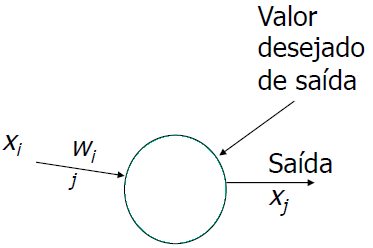
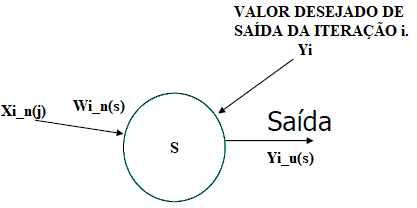
em andamento : algoritmo backpropagation

diff --git a/monografia_bcc.tex b/monografia_bcc.tex
@@ -1166,29 +1166,30 @@
         \subsection{Treino da MLP - BackPropagation para 1 sinal de saída}
             No caso do problema de predição de demanda onde se busca apenas um valor de saída, que é a previsão de vendas em relação às variáveis de entrada, o cálculo de reajuste dos pesos da camada de saída é reduzido à apenas 1 neurônio na camada de saída, porém o somatório no calculo do erro pode envolver outros neurônios de saída em outros casos.
             
-            Um vetor $i$ do conjunto de dados, de tamanho $n$ de variáveis de entrada\\ $X_{0}(i),X_{1}(i),...,X{n}(i)$,\\ que são os sinais de entrada, são apresentados à rede, relacionados à um valor supervisionado $Y_i$.
+            Um vetor $i$ do conjunto de dados, de tamanho $n$ de variáveis de entrada\\ $Xi_{0}(j),Xi_{1}(j),...,Xi_{n}(j)$,\\ que são os sinais de entrada, são apresentados à rede, relacionados à um valor supervisionado $Y_i$.
             
-            Em resumo o treino da rede perceptron com backpropagation obtém o sinal de saída no último neurônio $s$ da rede, através da propagação dos sinais de saída dos neurônios anteriores da rede, feito pela aplicação da combinação linear dos sinais de entrada com os pesos sinápticos em uma função de ativação. É calculado o erro quadrático $e$ deste sinal de saída em $s$ com o valor $Y_i$, e a regra do Gradiente Descendente com base neste erro é utilizada para o reajuste dos pesos sinápticos em todas as conexões de todos os neurônios. O processo é denominado regra delta generalizada. $\Delta$
+            Em resumo o treino da rede perceptron com backpropagation obtém o sinal de saída no último neurônio $s$ da rede, através da propagação dos sinais de saída dos neurônios anteriores da rede, feito pela aplicação da combinação linear dos sinais de entrada com os pesos sinápticos em uma função de ativação. É calculado o erro quadrático $e$ deste sinal de saída em $s$ com o valor $Yi$, e a regra do Gradiente Descendente com base neste erro é utilizada para o reajuste dos pesos sinápticos em todas as conexões de todos os neurônios. O processo é denominado regra delta generalizada. $\Delta$
             
             Neste capítulo, será denominado a função de ativação do neurônio por $F(.)$ para uma melhor coerência, devido ao símbolo $\delta$ utilizado para esta função nas seção anterior sobre o neurônio artificial ser amplamente utilizado para outros fins na regra de reajuste dos pesos sinápticos da rede MLP. Esta função na MLP - Backpropagation deve ser uma função não-linear diferenciável em todos os pontos, popularmente é usada a função sigmoide.
             
-            O erro quadrático do treino de uma rede MLP com Backpropagation, com 1 sinal de saída, no neurônio de saída $s$, em uma k-ésima iteração de treino em uma determinada época será:\\ 
-            $ e(k) =\frac{1}{2}*( (Y_i(k)-Y_u(s))^2 ) $\\ onde $Y_u(s)$ é o sinal de saída deste neurônio de saída, e $Y_i$ é o valor de saída da observação do conjunto de dados.
+            O erro quadrático do treino de uma rede MLP com Backpropagation, com 1 sinal de saída, no neurônio de saída $s$, em uma i-ésima iteração de treino em uma determinada época $k$ será:\\ 
+            $ e(i) =\frac{1}{2}*( (Yi-Yi_{\mu}(s))^2 ) $\\ onde $Y_{\mu}(s)$ é o sinal de saída deste neurônio de saída, e $Y_i$ é o valor de saída da observação do conjunto de dados.
             
             O principal objetivo de todo o método backpropagation conforme o avanço de épocas, é o treino em uma determinada época reduzir a média de erros quadráticos do conjunto de validação ( $m.s.e$ ) em $n$ iterações de validação desta época:\\
             $m.s.e = \frac{1}{n} \sum_{k=1}^{n}e(k)$
-            É importante observar que 1 época consiste no par treino e validação. Logo após o treino, os erros $e(k)$ serão obtidos novamente através das entradas $Y_i$ do conjunto de validação, e respostas propagadas $Y_u$ da rede já treinada, para então o $m.s.e$ ser calculado.
+            É importante observar que 1 época consiste no par treino e validação. Logo após o treino, os erros $e(k)$ serão obtidos novamente através das entradas $Y_i$ do conjunto de validação, e respostas propagadas $Y_\mu$ na camada de saída da rede já treinada, para então o $m.s.e$ ser calculado.
             
             O valor $m.s.e$ será o critério de parada do treinamento de toda a rede e deve ser observado a cada época de treinamento, assim que este valor atingir um ponto ótimo, conforme figura deste ponto ótimo exibida anteriormente, o critério de parada será verdadeiro e o treinamento deve parar, pois a partir desse ponto a rede converge à um overfitting (divergindo de uma capacidade de generalização, e memorizando os dados de treino, podendo ter sua estimativa eficiente somente no conjunto de dados de treino).
             
             Ressaltando que toda saída de todo neurônio $j$ da rede, com $n$ entradas, é calculada através da equação:\\
-            $ y_{u}(j) = F(\sum_{i=1}^{n} (X_i(j)*W_{i}(j) + b) )$\\
+            $ Y_{\mu}(j) = F(\mu)$\\
+            Onde $\mu = (\sum_{i=1}^{n} (Xi_{n}(j)*Wi_{n}(j) + b)$ é o potencial de ativação do neurônio $j$ e $F$ é a função de ativação do neurônio.
             
+           %%%%%%%%%%%%%%%%%%%%%%%%%%%%%%%%%% 
            \paragraph*{Fase Feedforward}
-            Nesta fase, em determinada época (K), em um vetor de $n$ variáveis $Xi$ correspondentes à um total de venda $Yi$, todos os neurônios $j$ propagam o sinal de saída através do calculo de $Y_{i}(j) = F(\sum_{i=1}^{n} (X_i(j)*W_{i}(j) + b) )$.
-            Os pesos sinápticos de cada neurônio $j$ conectado à uma entrada $Xi_n$ são $Wi_(j)$. A saída estimada pela rede será $Yu_i(s)$.
+            Nesta fase, em determinada época $(k)$, em um vetor de $n$ variáveis $Xi$ correspondentes à um total de venda $Yi$, todos os neurônios $j$ propagam o sinal de saída através do calculo de $Yi_{\mu}(j) = F(\mu(j))$. No cálculo de $\mu$ os pesos sinápticos de cada neurônio $j$ conectado à uma entrada $Xi_{n}(j)$ são $Wi_{n}(j)$. A saída estimada pela rede será $Yi_{\mu}(s)$.
             
-            Se a iteração $i$ da época $K$ for a primeira, todos os pesos $Wi_(j)$ são inicializados com valores aleatórios pequenos.
+            Se a iteração $i$ da época $k$ for a primeira, todos os pesos $Wi_{n}j$ em todos os neurônios, são inicializados com valores aleatórios pequenos.
             
             \begin{figure}[!ht]
           	\center{
@@ -1206,22 +1207,18 @@
           	\caption{Cálculo do valor estimado de saída da rede.}
            \end{figure}
             
-            O valor de $Yu_{i}(j)$. dos neurônios da primeira camada oculta, são obtidos de forma que $Xi_{n}$ são os sinais de entrada das variáveis de 1 à $n$.
+            O valor de $Yi_{\mu}(j)$. dos neurônios da primeira camada oculta, são obtidos de forma que $Xi_{n}(j)$ são os sinais de entrada das variáveis de 1 à $n$.
             
-            O valor de $Yu_{i}(j)$. dos neurônios das próximas camadas, inclusive a de saída, utiliza o sinal de saída $yi_{u}$ dos neurônios da camada anterior conectados à $j$ como um sinal de entrada $Xi$.
+            O valor de $Yi_{\mu}(j)$. dos neurônios das próximas camadas, inclusive a de saída, utiliza o sinal de saída $Yi_{\mu}$ dos neurônios da camada anterior conectados à $j$ como um sinal de entrada $Xi_{n}$.
             
+            %%%%%%%%%%%%%%%%%%%%%%%%%%%%%%
             \paragraph*{Fase Feedbackward}
-            O Processo de minimização do erro quadrático no treino, é feito pelo método do Gradiente Descendente, reajustando os pesos sinápticos $W_{i}(j)$ correspondente ao neurônio $j$ da rede, da seguinte forma:\\
-            $\Delta W_{i}(j) = \eta*\delta_j*X_i(j)$\\
+            O Processo de reajuste dos pesos sinápticos com o objetivo de atingir a minimalização do erro quadrático da validação, é feito pelo método do Gradiente Descendente, reajustando os pesos sinápticos $Wi_{n}(j)$ correspondente à cada neurônio $j$ da rede, para um valor $\Delta Wi_{n}(j)$, da seguinte forma:\\
+            $\Delta Wi_{n}(j) = \eta*\delta_j*Xi_{n}(j)$\\
             
-            
-            
-            
-            
-            O peso sináptico $W_i$ do neurônio j é reajustado proporcionalmente ao negativo da derivada parcial do erro deste neurônio em relação ao seu peso.\\ 
-            $\delta_j= -\frac{\partial e}{\partial y_{u}(j)}$\\
-            
-             
+            \subparagraph*{Regra $\delta$ para neurônio de saída}
+            Exclusivamente para a camada de saída, $\delta$ é calculado por\\
+            $\delta_s = (Yi - Yi_{\mu}(s) )*F'(\mu(s))$.
             \begin{figure}[!ht]
           	\center{
           		\includegraphics[width=0.40\textwidth]
@@ -1229,21 +1226,72 @@
           	}
           	\caption{Aprendizado de um neurônio na camada de saída}
            \end{figure}
-            $\delta_j = e_j*F'(y_j)$
             
-            O valor $\delta_j$ é retro-propagado aos neurônios de entrada como um peso $w_i$.
+            O valor dos $n$ pesos $Wi_{n}(s)$ do neurônio de saída $s$ com $n$ entradas vindas das saídas de neurônios $j$ das camadas anteriores, é obtido por $\Delta Wi_{n}(s) = \eta*\delta_s*Yi_{\mu}(j)$\\.
+            \begin{figure}[!ht]
+          	\center{
+          		\includegraphics[width=0.65\textwidth]
+          		{20-mlp-bp-fb.png}
+          	}
+          	\caption{Reajuste dos pesos de saída}
+           \end{figure}
+           %%%%%%%%%%%%%%%%%%%%%%%%%%%%%%%%%%%%%%%%%%%%%%%%%%%%%%%%%%%%%%%%
+           \subparagraph*{Regra $\delta$ para neurônios de camadas ocultas}
+            Nesta etapa, os neurônios $n$ da camada oculta obterão seu $\delta$ através da seguinte equação usando o $\delta$ dos $m$ neurônios da camada posterior que se conectam à ele:\\ 
+            
+            $\delta_n = F'(\mu(n))*(\sum \delta_m*Wi_{n}m)$\\
+            
+            Na rede neural de 1 camada oculta e 1 neurônio de saída, a soma será reduzida à apenas 1 neurônio, ficando então a regra $\delta$ da seguinte forma:\\
+            
+            $\delta_n = F'(\mu(n))*(\delta_s*Wi_{n}s)$\\
+            
+            Por fim os pesos das $n$ entradas $Wi_{n}(n)$ conectadas ao neurônio $n$ terão seus pesos reajustados da seguinte forma:\\
+            $\Delta Wi_{n}(n) = \eta*\delta_n*Xi_{n}(n)$\\
+            
+            Após o reajuste chegar na primeira camada oculta, um novo vetor de observações $i$ é apresentado à rede repetindo, iniciando novamente a fase feed-forward e repetindo o ciclo até o fim das entradas.
+            
+            \begin{figure}[!ht]
+          	\center{
+          		\includegraphics[width=0.65\textwidth]
+          		{21-mlp-bp-fbe.png}
+          	}
+          	\caption{Reajuste dos pesos de camadas ocultas}
+            \end{figure}
+           
+            \subparagraph{Validação de treino}
+            Após se encerrar uma época, que percorreu todas as i-ésimas entradas do conjunto de treino, um conjunto de dados de validação, previamente separado, é apresentado à rede.
+            A validação ocorre só com a fase feedforward, obtendo-se os erros quadráticos da camada de saída com o dado de validação observado.
+            Então é calculado o $m.s.e$, obtendo-se a média de todos os i-ésimos erros quadráticos do conjunto de validação.
+            O valor $m.s.e$ deve ser acompanhado até que se atinja um ponto ótimo, ou seja, um limite inferior após k épocas.
+            Quando este limite for atingido em uma época $k_o$, todos os parâmetros da rede dentro da época $k_o$ serão os parâmetros desejados do modelo final da rede.
+            
+            Quando a curva do $m.s.e$ estiver sendo realizada, não se saberá o ponto ótimo de parada, até que ele comece a ser superado, logo é importante arbitrar um número $l$ para salvar os parâmetros das $l$ épocas anteriores.
         
-            \paragraph{Passo1 - Inicialização da rede}
-             Todos os pesos são iniciados com valores aleatoriamente pequenos < 0.1.
-            
-            \paragraph{Algoritmo de Treinamento}
-            Enquanto $CP$ for diferente de  Ponto ótimo de parada, faça:
+        \subsection{Algoritmo de treino e validação backpropagation}
+            Parâmetros de entrada:
+            \begin{itemize}
+                \item 'rna'[][], Grafo de nós do tipo neurônio, da rede neural, onde rna[m][n] corresponde ao nó "n" da camada "m".
+                \item $\eta$, Taxa de aprendizado .
+                \item Yt[][] e Yv[][], Matrizes Yt do conjunto de treino e Yv do conjunto de validação, onde Y[0][0] corresponde ao primeiro valor supervisionado, e Y[0][m] corresponde ao último parâmetro X relacionado ao valor supervisionado.
+                \item L, Limite de armazenamento de épocas, para uma lista de tamanho L, de grafos 'rna' contendo a cópia de todos os parâmetros da rede. 
+                
+            \end{itemize}
             \begin{enumerate}
-            	    \item Aplica se um vetor de variáveis $x_i$ e seu respectivo valor de saída $y_d$ desejado;
-            		\item Calcula se as saídas dos neurônios, começando da primeira canada de entrada até o neurônio de saída.
-            		\item Calcula se o erro para cada neurônio da camada de saída, se erro for aceitável, volta para 1) para iniciar uma nova época, senão continue.
-            		\item Atualizar os pesos de cada processador, começando pela camada de saída, até a camada de entrada;
-            		\item voltar ao passo 1).
+                \item Inicializa-se uma fila circular de grafos 'rna' de tamanho L, K[L].
+                \item Inicializa-se uma fila circular com zeros, do tipo real, $m.s.e$ de tamanho L, mse[L].
+                \item Copiar 'rna'[][] para K[0].
+                \item Inicializar aleatoriamente todos os pesos sinápticos de K[0].
+                \item Aplicar Y
+                \item Calcula se as saídas dos neurônios, começando da primeira canada de entrada até o neurônio de saída.
+                \item LAÇO: Enquanto soma (mse[0] à mse[$\frac{L}{2}$]) for maior que (mse[$\frac{L}{2} +1$] à mse[L]) 
+                \item inicializa-se todos os pesos da rede com valores aleatoriamente pequenos.
+                 sinápticos
+                \item Enquanto $m.s.e$ atual for menor do que $l$ de $k.o$ de parada, faça:
+        	    \item Aplica se um vetor de variáveis $x_i$ e seu respectivo valor de saída $y_d$ desejado;
+        	
+        		\item Calcula se o erro para cada neurônio da camada de saída, se erro for aceitável, volta para 1) para iniciar uma nova época, senão continue.
+        		\item Atualizar os pesos de cada processador, começando pela camada de saída, até a camada de entrada;
+        		\item voltar ao passo 1).
             \end{enumerate}
 
   % ----------------------------------------------------------
